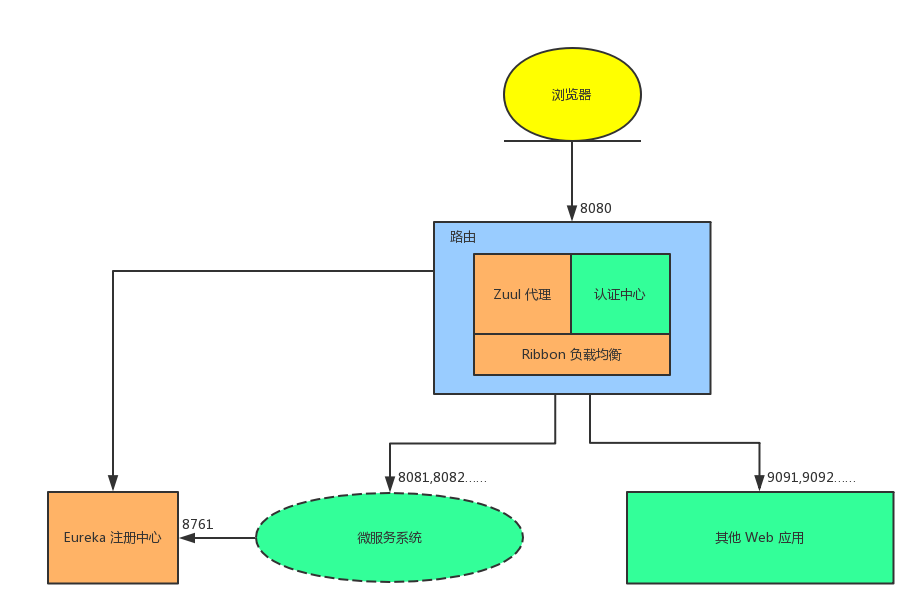
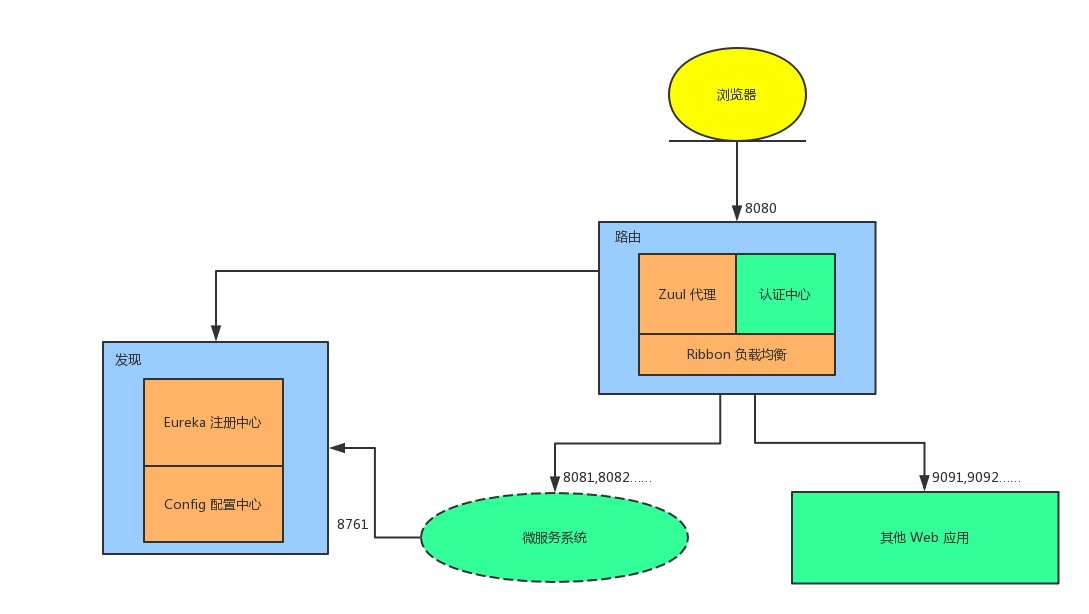
:memo: Spring Cloud Config 文档；完善 Eureka 文档

diff --git a/main.8051309f84e8dd81494f.bundle.js b/main.8051309f84e8dd81494f.bundle.js
@@ -1,0 +1,1 @@
+webpackJsonp([1,4],{"/fcW":function(t,e){function n(t){throw new Error("Cannot find module '"+t+"'.")}n.keys=function(){return[]},n.resolve=n,t.exports=n,n.id="/fcW"},0:function(t,e,n){t.exports=n("x35b")},"0+99":function(t,e,n){"use strict";function _(t){return r._29(0,[(t()(),r._30(0,null,null,1,"div",[["id","articleContent"]],[[8,"innerHTML",1]],null,null,null,null)),(t()(),r._32(null,["\n"])),(t()(),r._32(null,["\n"]))],null,function(t,e){t(e,0,0,e.component.article)})}function i(t){return r._29(0,[(t()(),r._30(0,null,null,1,"app-article-content",[],null,null,null,_,h)),r._31(114688,null,0,o.a,[u.v,s.e,a.a],null,null)],function(t,e){t(e,1,0)},null)}var l=n("a/R+"),r=n("3j3K"),o=n("t3BM"),u=n("5oXY"),s=n("2Je8"),a=n("nt/X");n.d(e,"a",function(){return d});var c=[l.a],h=r._28({encapsulation:0,styles:c,data:{}}),d=r._35("app-article-content",o.a,i,{},{},[])},"0Pyw":function(t,e,n){"use strict";n.d(e,"a",function(){return _});var _=["md-sidenav-container[_ngcontent-%COMP%]{width:100%;height:90%}#menu-button[_ngcontent-%COMP%]{margin-right:10px}"]},"1A80":function(t,e,n){"use strict";function _(t){return r._29(0,[(t()(),r._30(0,null,null,21,"md-toolbar",[["color","primary"],["role","toolbar"]],[[2,"mat-toolbar",null]],null,null,o.f,o.g)),r._31(16384,null,0,u._13,[[2,u._14],r.L],null,null),r._31(49152,null,0,u._15,[r.L,r._20],{color:[0,"color"]},null),(t()(),r._32(0,["\n  "])),(t()(),r._30(0,null,0,16,"button",[["class","mat-button"],["md-button",""],["routerLink","/"],["routerLinkActive","active"]],[[8,"disabled",0]],[[null,"click"]],function(t,e,n){var _=!0;if("click"===e){_=!1!==r._33(t,8).onClick()&&_}return _},o.h,o.i)),r._31(16384,null,0,u._13,[[2,u._14],r.L],null,null),r._31(180224,null,0,u._16,[r.L,r._20,u.b,u.l],null,null),r._31(16384,null,0,u._17,[],null,null),r._31(16384,[[1,4]],0,s.y,[s.j,s.v,[8,null],r.K,r.L],{routerLink:[0,"routerLink"]},null),r._31(1720320,null,2,s.z,[s.j,r.L,r.K,r.P],{routerLinkActive:[0,"routerLinkActive"]},null),r._34(603979776,1,{links:1}),r._34(603979776,2,{linksWithHrefs:1}),(t()(),r._32(0,["\n    "])),(t()(),r._30(0,null,0,3,"md-icon",[["color","accent"],["role","img"]],[[2,"mat-icon",null]],null,null,o.j,o.k)),r._31(16384,null,0,u._13,[[2,u._14],r.L],null,null),r._31(9027584,null,0,u._18,[r.L,r._20,u.w],{color:[0,"color"]},null),(t()(),r._32(0,["book"])),(t()(),r._32(0,["\n    "])),(t()(),r._30(0,null,0,1,"span",[],null,null,null,null,null)),(t()(),r._32(null,["",""])),(t()(),r._32(0,["\n  "])),(t()(),r._32(0,["\n"])),(t()(),r._32(null,["\n"])),(t()(),r._30(16777216,null,null,1,"router-outlet",[],null,null,null,null,null)),r._31(147456,null,0,s.A,[s.l,r.T,r.U,[8,null]],null,null),(t()(),r._32(null,["\n"]))],function(t,e){t(e,2,0,"primary"),t(e,8,0,"/"),t(e,9,0,"active"),t(e,15,0,"accent")},function(t,e){var n=e.component;t(e,0,0,!0),t(e,4,0,r._33(e,6).disabled||null),t(e,13,0,!0),t(e,19,0,n.title)})}function i(t){return r._29(0,[(t()(),r._30(0,null,null,1,"app-root",[],null,null,null,_,h)),r._31(49152,null,0,a.a,[],null,null)],null,null)}var l=n("l0Vc"),r=n("3j3K"),o=n("ZWsw"),u=n("fYnu"),s=n("5oXY"),a=n("YWx4");n.d(e,"a",function(){return d});var c=[l.a],h=r._28({encapsulation:0,styles:c,data:{}}),d=r._35("app-root",a.a,i,{},{},[])},Cd9f:function(t,e,n){"use strict";n.d(e,"a",function(){return _});var _=function(){function t(){}return t}()},Iksp:function(t,e,n){"use strict";var _=n("rxKx");n.n(_);n.d(e,"a",function(){return i});var i=function(){function t(){}return t}()},YWx4:function(t,e,n){"use strict";n.d(e,"a",function(){return _});var _=function(){function t(){this.title="Yorke's Blog"}return t}()},"a/R+":function(t,e,n){"use strict";n.d(e,"a",function(){return _});var _=["#articleContent[_ngcontent-%COMP%]{padding:2vh 2vw}img[_ngcontent-%COMP%]{max-width:94vw}"]},ahCV:function(t,e,n){"use strict";n.d(e,"a",function(){return _});var _=function(){function t(){}return t}()},"g+TE":function(t,e,n){"use strict";var _=n("oj9P"),i=n("t3BM");n.d(e,"a",function(){return l});var l=(_.a,i.a,function(){function t(){}return t}())},kZql:function(t,e,n){"use strict";n.d(e,"a",function(){return _});var _={production:!0}},kke6:function(t,e,n){"use strict";var _=n("3j3K"),i=n("Iksp"),l=n("2Je8"),r=n("5oXY"),o=n("Qbdm"),u=n("NVOs"),s=n("Fzro"),a=n("KN8t"),c=n("fYnu"),h=n("g+TE"),d=n("ahCV"),p=n("Cd9f"),f=n("nt/X"),g=n("ZWsw"),y=n("uvAC"),M=n("0+99"),b=n("1A80"),m=n("oj9P"),A=n("t3BM"),O=n("1GJ2");n.d(e,"a",function(){return S});var R=this&&this.__extends||function(){var t=Object.setPrototypeOf||{__proto__:[]}instanceof Array&&function(t,e){t.__proto__=e}||function(t,e){for(var n in e)e.hasOwnProperty(n)&&(t[n]=e[n])};return function(e,n){function _(){this.constructor=e}t(e,n),e.prototype=null===n?Object.create(n):(_.prototype=n.prototype,new _)}}(),P=function(t){function e(e){return t.call(this,e,[g.a,g.b,g.c,g.d,g.e,y.a,M.a,b.a],[b.a])||this}return R(e,t),Object.defineProperty(e.prototype,"_LOCALE_ID_69",{get:function(){return null==this.__LOCALE_ID_69&&(this.__LOCALE_ID_69=_.b(this.parent.get(_.c,null))),this.__LOCALE_ID_69},enumerable:!0,configurable:!0}),Object.defineProperty(e.prototype,"_NgLocalization_70",{get:function(){return null==this.__NgLocalization_70&&(this.__NgLocalization_70=new l.a(this._LOCALE_ID_69)),this.__NgLocalization_70},enumerable:!0,configurable:!0}),Object.defineProperty(e.prototype,"_APP_ID_71",{get:function(){return null==this.__APP_ID_71&&(this.__APP_ID_71=_.d()),this.__APP_ID_71},enumerable:!0,configurable:!0}),Object.defineProperty(e.prototype,"_IterableDiffers_72",{get:function(){return null==this.__IterableDiffers_72&&(this.__IterableDiffers_72=_.e()),this.__IterableDiffers_72},enumerable:!0,configurable:!0}),Object.defineProperty(e.prototype,"_KeyValueDiffers_73",{get:function(){return null==this.__KeyValueDiffers_73&&(this.__KeyValueDiffers_73=_.f()),this.__KeyValueDiffers_73},enumerable:!0,configurable:!0}),Object.defineProperty(e.prototype,"_DomSanitizer_74",{get:function(){return null==this.__DomSanitizer_74&&(this.__DomSanitizer_74=new o.b(this.parent.get(o.c))),this.__DomSanitizer_74},enumerable:!0,configurable:!0}),Object.defineProperty(e.prototype,"_Sanitizer_75",{get:function(){return null==this.__Sanitizer_75&&(this.__Sanitizer_75=this._DomSanitizer_74),this.__Sanitizer_75},enumerable:!0,configurable:!0}),Object.defineProperty(e.prototype,"_HAMMER_GESTURE_CONFIG_76",{get:function(){return null==this.__HAMMER_GESTURE_CONFIG_76&&(this.__HAMMER_GESTURE_CONFIG_76=new c.a),this.__HAMMER_GESTURE_CONFIG_76},enumerable:!0,configurable:!0}),Object.defineProperty(e.prototype,"_EVENT_MANAGER_PLUGINS_77",{get:function(){return null==this.__EVENT_MANAGER_PLUGINS_77&&(this.__EVENT_MANAGER_PLUGINS_77=[new o.d(this.parent.get(o.c)),new o.e(this.parent.get(o.c)),new o.f(this.parent.get(o.c),this._HAMMER_GESTURE_CONFIG_76)]),this.__EVENT_MANAGER_PLUGINS_77},enumerable:!0,configurable:!0}),Object.defineProperty(e.prototype,"_EventManager_78",{get:function(){return null==this.__EventManager_78&&(this.__EventManager_78=new o.g(this._EVENT_MANAGER_PLUGINS_77,this.parent.get(_.g))),this.__EventManager_78},enumerable:!0,configurable:!0}),Object.defineProperty(e.prototype,"_ɵDomSharedStylesHost_79",{get:function(){return null==this.__ɵDomSharedStylesHost_79&&(this.__ɵDomSharedStylesHost_79=new o.h(this.parent.get(o.c))),this.__ɵDomSharedStylesHost_79},enumerable:!0,configurable:!0}),Object.defineProperty(e.prototype,"_ɵDomRendererFactory2_80",{get:function(){return null==this.__ɵDomRendererFactory2_80&&(this.__ɵDomRendererFactory2_80=new o.i(this._EventManager_78,this._ɵDomSharedStylesHost_79)),this.__ɵDomRendererFactory2_80},enumerable:!0,configurable:!0}),Object.defineProperty(e.prototype,"_AnimationDriver_81",{get:function(){return null==this.__AnimationDriver_81&&(this.__AnimationDriver_81=a.a()),this.__AnimationDriver_81},enumerable:!0,configurable:!0}),Object.defineProperty(e.prototype,"_ɵAnimationStyleNormalizer_82",{get:function(){return null==this.__ɵAnimationStyleNormalizer_82&&(this.__ɵAnimationStyleNormalizer_82=a.b()),this.__ɵAnimationStyleNormalizer_82},enumerable:!0,configurable:!0}),Object.defineProperty(e.prototype,"_ɵAnimationEngine_83",{get:function(){return null==this.__ɵAnimationEngine_83&&(this.__ɵAnimationEngine_83=new a.c(this._AnimationDriver_81,this._ɵAnimationStyleNormalizer_82)),this.__ɵAnimationEngine_83},enumerable:!0,configurable:!0}),Object.defineProperty(e.prototype,"_RendererFactory2_84",{get:function(){return null==this.__RendererFactory2_84&&(this.__RendererFactory2_84=a.d(this._ɵDomRendererFactory2_80,this._ɵAnimationEngine_83,this.parent.get(_.g))),this.__RendererFactory2_84},enumerable:!0,configurable:!0}),Object.defineProperty(e.prototype,"_ɵSharedStylesHost_85",{get:function(){return null==this.__ɵSharedStylesHost_85&&(this.__ɵSharedStylesHost_85=this._ɵDomSharedStylesHost_79),this.__ɵSharedStylesHost_85},enumerable:!0,configurable:!0}),Object.defineProperty(e.prototype,"_Testability_86",{get:function(){return null==this.__Testability_86&&(this.__Testability_86=new _.h(this.parent.get(_.g))),this.__Testability_86},enumerable:!0,configurable:!0}),Object.defineProperty(e.prototype,"_Meta_87",{get:function(){return null==this.__Meta_87&&(this.__Meta_87=new o.j(this.parent.get(o.c))),this.__Meta_87},enumerable:!0,configurable:!0}),Object.defineProperty(e.prototype,"_Title_88",{get:function(){return null==this.__Title_88&&(this.__Title_88=new o.k(this.parent.get(o.c))),this.__Title_88},enumerable:!0,configurable:!0}),Object.defineProperty(e.prototype,"_ɵi_89",{get:function(){return null==this.__ɵi_89&&(this.__ɵi_89=new u.a),this.__ɵi_89},enumerable:!0,configurable:!0}),Object.defineProperty(e.prototype,"_BrowserXhr_90",{get:function(){return null==this.__BrowserXhr_90&&(this.__BrowserXhr_90=new s.a),this.__BrowserXhr_90},enumerable:!0,configurable:!0}),Object.defineProperty(e.prototype,"_ResponseOptions_91",{get:function(){return null==this.__ResponseOptions_91&&(this.__ResponseOptions_91=new s.b),this.__ResponseOptions_91},enumerable:!0,configurable:!0}),Object.defineProperty(e.prototype,"_XSRFStrategy_92",{get:function(){return null==this.__XSRFStrategy_92&&(this.__XSRFStrategy_92=s.c()),this.__XSRFStrategy_92},enumerable:!0,configurable:!0}),Object.defineProperty(e.prototype,"_XHRBackend_93",{get:function(){return null==this.__XHRBackend_93&&(this.__XHRBackend_93=new s.d(this._BrowserXhr_90,this._ResponseOptions_91,this._XSRFStrategy_92)),this.__XHRBackend_93},enumerable:!0,configurable:!0}),Object.defineProperty(e.prototype,"_RequestOptions_94",{get:function(){return null==this.__RequestOptions_94&&(this.__RequestOptions_94=new s.e),this.__RequestOptions_94},enumerable:!0,configurable:!0}),Object.defineProperty(e.prototype,"_Http_95",{get:function(){return null==this.__Http_95&&(this.__Http_95=s.f(this._XHRBackend_93,this._RequestOptions_94)),this.__Http_95},enumerable:!0,configurable:!0}),Object.defineProperty(e.prototype,"_Platform_96",{get:function(){return null==this.__Platform_96&&(this.__Platform_96=new c.b),this.__Platform_96},enumerable:!0,configurable:!0}),Object.defineProperty(e.prototype,"_ScrollDispatcher_97",{get:function(){return null==this.__ScrollDispatcher_97&&(this.__ScrollDispatcher_97=c.c(this.parent.get(c.d,null),this.parent.get(_.g),this._Platform_96)),this.__ScrollDispatcher_97},enumerable:!0,configurable:!0}),Object.defineProperty(e.prototype,"_ɵo_98",{get:function(){return null==this.__ɵo_98&&(this.__ɵo_98=c.e(this.parent.get(c.f,null),this._ScrollDispatcher_97)),this.__ɵo_98},enumerable:!0,configurable:!0}),Object.defineProperty(e.prototype,"_OverlayContainer_99",{get:function(){return null==this.__OverlayContainer_99&&(this.__OverlayContainer_99=c.g(this.parent.get(c.h,null))),this.__OverlayContainer_99},enumerable:!0,configurable:!0}),Object.defineProperty(e.prototype,"_ɵr_100",{get:function(){return null==this.__ɵr_100&&(this.__ɵr_100=new c.i(this._ɵo_98)),this.__ɵr_100},enumerable:!0,configurable:!0}),Object.defineProperty(e.prototype,"_Overlay_101",{get:function(){return null==this.__Overlay_101&&(this.__Overlay_101=new c.j(this._OverlayContainer_99,this.componentFactoryResolver,this._ɵr_100,this._ApplicationRef_7,this,this.parent.get(_.g))),this.__Overlay_101},enumerable:!0,configurable:!0}),Object.defineProperty(e.prototype,"_FocusOriginMonitor_102",{get:function(){return null==this.__FocusOriginMonitor_102&&(this.__FocusOriginMonitor_102=c.k(this.parent.get(c.l,null),this.parent.get(_.g),this._Platform_96)),this.__FocusOriginMonitor_102},enumerable:!0,configurable:!0}),Object.defineProperty(e.prototype,"_UniqueSelectionDispatcher_103",{get:function(){return null==this.__UniqueSelectionDispatcher_103&&(this.__UniqueSelectionDispatcher_103=c.m(this.parent.get(c.n,null))),this.__UniqueSelectionDispatcher_103},enumerable:!0,configurable:!0}),Object.defineProperty(e.prototype,"_InteractivityChecker_104",{get:function(){return null==this.__InteractivityChecker_104&&(this.__InteractivityChecker_104=new c.o(this._Platform_96)),this.__InteractivityChecker_104},enumerable:!0,configurable:!0}),Object.defineProperty(e.prototype,"_FocusTrapFactory_105",{get:function(){return null==this.__FocusTrapFactory_105&&(this.__FocusTrapFactory_105=new c.p(this._InteractivityChecker_104,this.parent.get(_.g))),this.__FocusTrapFactory_105},enumerable:!0,configurable:!0}),Object.defineProperty(e.prototype,"_LiveAnnouncer_106",{get:function(){return null==this.__LiveAnnouncer_106&&(this.__LiveAnnouncer_106=c.q(this.parent.get(c.r,null),this.parent.get(c.s,null),this._Platform_96)),this.__LiveAnnouncer_106},enumerable:!0,configurable:!0}),Object.defineProperty(e.prototype,"_MdDialog_107",{get:function(){return null==this.__MdDialog_107&&(this.__MdDialog_107=new c.t(this._Overlay_101,this,this._Location_59,this.parent.get(c.t,null))),this.__MdDialog_107},enumerable:!0,configurable:!0}),Object.defineProperty(e.prototype,"_MdDatepickerIntl_108",{get:function(){return null==this.__MdDatepickerIntl_108&&(this.__MdDatepickerIntl_108=new c.u),this.__MdDatepickerIntl_108},enumerable:!0,configurable:!0}),Object.defineProperty(e.prototype,"_MdIconRegistry_109",{get:function(){return null==this.__MdIconRegistry_109&&(this.__MdIconRegistry_109=c.v(this.parent.get(c.w,null),this._Http_95,this._DomSanitizer_74)),this.__MdIconRegistry_109},enumerable:!0,configurable:!0}),Object.defineProperty(e.prototype,"_MdSnackBar_110",{get:function(){return null==this.__MdSnackBar_110&&(this.__MdSnackBar_110=new c.x(this._Overlay_101,this._LiveAnnouncer_106,this.parent.get(c.x,null))),this.__MdSnackBar_110},enumerable:!0,configurable:!0}),Object.defineProperty(e.prototype,"_ɵa_111",{get:function(){return null==this.__ɵa_111&&(this.__ɵa_111=new c.y),this.__ɵa_111},enumerable:!0,configurable:!0}),Object.defineProperty(e.prototype,"_BlogArticleService_112",{get:function(){return null==this.__BlogArticleService_112&&(this.__BlogArticleService_112=new f.a(this._Http_95)),this.__BlogArticleService_112},enumerable:!0,configurable:!0}),Object.defineProperty(e.prototype,"_ActivatedRoute_113",{get:function(){return null==this.__ActivatedRoute_113&&(this.__ActivatedRoute_113=r.a(this._Router_63)),this.__ActivatedRoute_113},enumerable:!0,configurable:!0}),Object.defineProperty(e.prototype,"_NoPreloading_114",{get:function(){return null==this.__NoPreloading_114&&(this.__NoPreloading_114=new r.b),this.__NoPreloading_114},enumerable:!0,configurable:!0}),Object.defineProperty(e.prototype,"_PreloadingStrategy_115",{get:function(){return null==this.__PreloadingStrategy_115&&(this.__PreloadingStrategy_115=this._NoPreloading_114),this.__PreloadingStrategy_115},enumerable:!0,configurable:!0}),Object.defineProperty(e.prototype,"_RouterPreloader_116",{get:function(){return null==this.__RouterPreloader_116&&(this.__RouterPreloader_116=new r.c(this._Router_63,this._NgModuleFactoryLoader_61,this._Compiler_60,this,this._PreloadingStrategy_115)),this.__RouterPreloader_116},enumerable:!0,configurable:!0}),Object.defineProperty(e.prototype,"_PreloadAllModules_117",{get:function(){return null==this.__PreloadAllModules_117&&(this.__PreloadAllModules_117=new r.d),this.__PreloadAllModules_117},enumerable:!0,configurable:!0}),Object.defineProperty(e.prototype,"_ROUTER_INITIALIZER_118",{get:function(){return null==this.__ROUTER_INITIALIZER_118&&(this.__ROUTER_INITIALIZER_118=r.e(this._ɵg_3)),this.__ROUTER_INITIALIZER_118},enumerable:!0,configurable:!0}),Object.defineProperty(e.prototype,"_APP_BOOTSTRAP_LISTENER_119",{get:function(){return null==this.__APP_BOOTSTRAP_LISTENER_119&&(this.__APP_BOOTSTRAP_LISTENER_119=[this._ROUTER_INITIALIZER_118]),this.__APP_BOOTSTRAP_LISTENER_119},enumerable:!0,configurable:!0}),e.prototype.createInternal=function(){return this._CommonModule_0=new l.b,this._ErrorHandler_1=o.l(),this._NgProbeToken_2=[r.f()],this._ɵg_3=new r.g(this),this._APP_INITIALIZER_4=[_.i,o.m(this.parent.get(o.n,null),this._NgProbeToken_2),r.h(this._ɵg_3)],this._ApplicationInitStatus_5=new _.j(this._APP_INITIALIZER_4),this._ɵf_6=new _.k(this.parent.get(_.g),this.parent.get(_.l),this,this._ErrorHandler_1,this.componentFactoryResolver,this._ApplicationInitStatus_5),this._ApplicationRef_7=this._ɵf_6,this._ApplicationModule_8=new _.m(this._ApplicationRef_7),this._BrowserModule_9=new o.o(this.parent.get(o.o,null)),this._ɵba_10=new u.b,this._FormsModule_11=new u.c,this._HttpModule_12=new s.g,this._BrowserAnimationsModule_13=new a.e,this._MATERIAL_SANITY_CHECKS_14=!0,this._CompatibilityModule_15=new c.z(this.parent.get(o.c,null),this._MATERIAL_SANITY_CHECKS_14),this._MdCommonModule_16=new c.A,this._PlatformModule_17=new c.B,this._ɵm_18=new c.C,this._MdRippleModule_19=new c.D,this._MdSelectionModule_20=new c.E,this._MdOptionModule_21=new c.F,this._PortalModule_22=new c.G,this._OverlayModule_23=new c.H,this._MdAutocompleteModule_24=new c.I,this._StyleModule_25=new c.J,this._MdButtonModule_26=new c.K,this._MdButtonToggleModule_27=new c.L,this._MdCardModule_28=new c.M,this._MdChipsModule_29=new c.N,this._MdCheckboxModule_30=new c.O,this._A11yModule_31=new c.P,this._MdDialogModule_32=new c.Q,this._MdDatepickerModule_33=new c.R,this._MdLineModule_34=new c.S,this._MdGridListModule_35=new c.T,this._MdIconModule_36=new c.U,this._MdInputModule_37=new c.V,this._MdListModule_38=new c.W,this._MdMenuModule_39=new c.X,this._MdProgressBarModule_40=new c.Y,this._MdProgressSpinnerModule_41=new c.Z,this._MdRadioModule_42=new c._0,this._MdSelectModule_43=new c._1,this._MdSidenavModule_44=new c._2,this._RtlModule_45=new c._3,this._MdSliderModule_46=new c._4,this._MdSlideToggleModule_47=new c._5,this._MdSnackBarModule_48=new c._6,this._ObserveContentModule_49=new c._7,this._MdTabsModule_50=new c._8,this._MdToolbarModule_51=new c._9,this._MdTooltipModule_52=new c._10,this._MaterialModule_53=new c._11,this._ɵa_54=r.i(this.parent.get(r.j,null)),this._UrlSerializer_55=new r.k,this._RouterOutletMap_56=new r.l,this._ROUTER_CONFIGURATION_57={},this._LocationStrategy_58=r.m(this.parent.get(l.c),this.parent.get(l.d,null),this._ROUTER_CONFIGURATION_57),this._Location_59=new l.e(this._LocationStrategy_58),this._Compiler_60=new _.n,this._NgModuleFactoryLoader_61=new _.o(this._Compiler_60,this.parent.get(_.p,null)),this._ROUTES_62=[[{path:"articles",component:m.a,children:[{path:":title",component:A.a}]}],[{path:"",redirectTo:"/articles/Spring%20Cloud%20架构概述",pathMatch:"full"}]],this._Router_63=r.n(this._ApplicationRef_7,this._UrlSerializer_55,this._RouterOutletMap_56,this._Location_59,this,this._NgModuleFactoryLoader_61,this._Compiler_60,this._ROUTES_62,this._ROUTER_CONFIGURATION_57,this.parent.get(r.o,null),this.parent.get(r.p,null)),this._RouterModule_64=new r.q(this._ɵa_54,this._Router_63),this._BlogArticleRoutingModule_65=new h.a,this._BlogArticleModule_66=new d.a,this._AppRoutingModule_67=new p.a,this._AppModule_68=new i.a,this._AppModule_68},e.prototype.getInternal=function(t,e){return t===l.b?this._CommonModule_0:t===_.q?this._ErrorHandler_1:t===_.r?this._NgProbeToken_2:t===r.g?this._ɵg_3:t===_.s?this._APP_INITIALIZER_4:t===_.j?this._ApplicationInitStatus_5:t===_.k?this._ɵf_6:t===_.t?this._ApplicationRef_7:t===_.m?this._ApplicationModule_8:t===o.o?this._BrowserModule_9:t===u.b?this._ɵba_10:t===u.c?this._FormsModule_11:t===s.g?this._HttpModule_12:t===a.e?this._BrowserAnimationsModule_13:t===c._12?this._MATERIAL_SANITY_CHECKS_14:t===c.z?this._CompatibilityModule_15:t===c.A?this._MdCommonModule_16:t===c.B?this._PlatformModule_17:t===c.C?this._ɵm_18:t===c.D?this._MdRippleModule_19:t===c.E?this._MdSelectionModule_20:t===c.F?this._MdOptionModule_21:t===c.G?this._PortalModule_22:t===c.H?this._OverlayModule_23:t===c.I?this._MdAutocompleteModule_24:t===c.J?this._StyleModule_25:t===c.K?this._MdButtonModule_26:t===c.L?this._MdButtonToggleModule_27:t===c.M?this._MdCardModule_28:t===c.N?this._MdChipsModule_29:t===c.O?this._MdCheckboxModule_30:t===c.P?this._A11yModule_31:t===c.Q?this._MdDialogModule_32:t===c.R?this._MdDatepickerModule_33:t===c.S?this._MdLineModule_34:t===c.T?this._MdGridListModule_35:t===c.U?this._MdIconModule_36:t===c.V?this._MdInputModule_37:t===c.W?this._MdListModule_38:t===c.X?this._MdMenuModule_39:t===c.Y?this._MdProgressBarModule_40:t===c.Z?this._MdProgressSpinnerModule_41:t===c._0?this._MdRadioModule_42:t===c._1?this._MdSelectModule_43:t===c._2?this._MdSidenavModule_44:t===c._3?this._RtlModule_45:t===c._4?this._MdSliderModule_46:t===c._5?this._MdSlideToggleModule_47:t===c._6?this._MdSnackBarModule_48:t===c._7?this._ObserveContentModule_49:t===c._8?this._MdTabsModule_50:t===c._9?this._MdToolbarModule_51:t===c._10?this._MdTooltipModule_52:t===c._11?this._MaterialModule_53:t===r.r?this._ɵa_54:t===r.s?this._UrlSerializer_55:t===r.l?this._RouterOutletMap_56:t===r.t?this._ROUTER_CONFIGURATION_57:t===l.f?this._LocationStrategy_58:t===l.e?this._Location_59:t===_.n?this._Compiler_60:t===_.u?this._NgModuleFactoryLoader_61:t===r.u?this._ROUTES_62:t===r.j?this._Router_63:t===r.q?this._RouterModule_64:t===h.a?this._BlogArticleRoutingModule_65:t===d.a?this._BlogArticleModule_66:t===p.a?this._AppRoutingModule_67:t===i.a?this._AppModule_68:t===_.c?this._LOCALE_ID_69:t===l.g?this._NgLocalization_70:t===_.v?this._APP_ID_71:t===_.w?this._IterableDiffers_72:t===_.x?this._KeyValueDiffers_73:t===o.p?this._DomSanitizer_74:t===_.y?this._Sanitizer_75:t===o.q?this._HAMMER_GESTURE_CONFIG_76:t===o.r?this._EVENT_MANAGER_PLUGINS_77:t===o.g?this._EventManager_78:t===o.h?this._ɵDomSharedStylesHost_79:t===o.i?this._ɵDomRendererFactory2_80:t===O.a?this._AnimationDriver_81:t===O.b?this._ɵAnimationStyleNormalizer_82:t===O.c?this._ɵAnimationEngine_83:t===_.z?this._RendererFactory2_84:t===o.s?this._ɵSharedStylesHost_85:t===_.h?this._Testability_86:t===o.j?this._Meta_87:t===o.k?this._Title_88:t===u.a?this._ɵi_89:t===s.a?this._BrowserXhr_90:t===s.h?this._ResponseOptions_91:t===s.i?this._XSRFStrategy_92:t===s.d?this._XHRBackend_93:t===s.j?this._RequestOptions_94:t===s.k?this._Http_95:t===c.b?this._Platform_96:t===c.d?this._ScrollDispatcher_97:t===c.f?this._ɵo_98:t===c.h?this._OverlayContainer_99:t===c.i?this._ɵr_100:t===c.j?this._Overlay_101:t===c.l?this._FocusOriginMonitor_102:t===c.n?this._UniqueSelectionDispatcher_103:t===c.o?this._InteractivityChecker_104:t===c.p?this._FocusTrapFactory_105:t===c.r?this._LiveAnnouncer_106:t===c.t?this._MdDialog_107:t===c.u?this._MdDatepickerIntl_108:t===c.w?this._MdIconRegistry_109:t===c.x?this._MdSnackBar_110:t===c.y?this._ɵa_111:t===f.a?this._BlogArticleService_112:t===r.v?this._ActivatedRoute_113:t===r.b?this._NoPreloading_114:t===r.w?this._PreloadingStrategy_115:t===r.c?this._RouterPreloader_116:t===r.d?this._PreloadAllModules_117:t===r.x?this._ROUTER_INITIALIZER_118:t===_.A?this._APP_BOOTSTRAP_LISTENER_119:e},e.prototype.destroyInternal=function(){this._ɵf_6.ngOnDestroy(),this.__ɵDomSharedStylesHost_79&&this._ɵDomSharedStylesHost_79.ngOnDestroy(),this.__RouterPreloader_116&&this._RouterPreloader_116.ngOnDestroy()},e}(_.B),S=new _.C(P,i.a)},l0Vc:function(t,e,n){"use strict";n.d(e,"a",function(){return _});var _=[""]},"nt/X":function(t,e,n){"use strict";var _=n("Fzro"),i=n("EFqf"),l=(n.n(i),n("eErF"));n.n(l);n.d(e,"a",function(){return s});var r=["Spring Cloud 架构概述","Eureka - 服务发现","Zuul - 反向代理","Ribbon - 负载均衡","Config - 配置中心"],o="/assets/articles/",u=".md",s=function(){function t(t){this.http=t,this.articleList=r}return t.prototype.getArticleList=function(){return this.articleList},t.prototype.getArticle=function(t){return this.http.get(o+t+u).toPromise().then(function(t){return i(t.text())})},t.ctorParameters=function(){return[{type:_.k}]},t}()},oj9P:function(t,e,n){"use strict";var _=n("5oXY"),i=n("nt/X");n.d(e,"a",function(){return l});var l=function(){function t(t,e,n){this.router=t,this.activatedRoute=e,this.blogArticleService=n,this.selectedArticle="Spring Cloud"}return t.prototype.ngOnInit=function(){this.articleList=this.blogArticleService.getArticleList()},t.prototype.onSelect=function(t){this.selectedArticle=t,this.router.navigate([t],{relativeTo:this.activatedRoute})},t.ctorParameters=function(){return[{type:_.j},{type:_.v},{type:i.a}]},t}()},t3BM:function(t,e,n){"use strict";var _=n("5oXY"),i=n("2Je8"),l=n("uCY4"),r=(n.n(l),n("nt/X"));n.d(e,"a",function(){return o});var o=function(){function t(t,e,n){this.activatedRoute=t,this.location=e,this.blogArticleService=n}return t.prototype.ngOnInit=function(){var t=this;this.activatedRoute.params.switchMap(function(e){return t.blogArticleService.getArticle(e.title)}).subscribe(function(e){return t.article=e})},t.ctorParameters=function(){return[{type:_.v},{type:i.e},{type:r.a}]},t}()},uvAC:function(t,e,n){"use strict";function _(t){return o._29(0,[(t()(),o._30(0,null,null,24,"md-nav-list",[["dense",""],["role","list"]],[[2,"mat-nav-list",null]],null,null,u.l,u.m)),o._31(16384,null,0,s._13,[[2,s._14],o.L],null,null),o._31(49152,null,0,s._58,[],null,null),o._31(16384,null,0,s._60,[],null,null),(t()(),o._32(0,["\n      "])),(t()(),o._30(0,null,0,18,"md-list-item",[["role","listitem"],["routerLinkActive","active"]],[[2,"mat-list-item",null]],[[null,"click"],[null,"focus"],[null,"blur"]],function(t,e,n){var _=!0,i=t.component;if("focus"===e){_=!1!==o._33(t,7)._handleFocus()&&_}if("blur"===e){_=!1!==o._33(t,7)._handleBlur()&&_}if("click"===e){i.onSelect(t.context.$implicit);_=!1!==o._33(t.parent,7).toggle()&&_}return _},u.n,u.o)),o._31(16384,null,0,s._13,[[2,s._14],o.L],null,null),o._31(1097728,null,2,s._59,[o._20,o.L,[2,s._58],[2,s._60]],null,null),o._34(603979776,2,{_lines:1}),o._34(335544320,3,{_hasAvatar:0}),o._31(1720320,null,2,a.z,[a.j,o.L,o.K,o.P],{routerLinkActive:[0,"routerLinkActive"]},null),o._34(603979776,4,{links:1}),o._34(603979776,5,{linksWithHrefs:1}),(t()(),o._32(2,["\n        "])),(t()(),o._30(0,null,0,4,"md-icon",[["md-list-icon",""],["role","img"]],[[2,"mat-icon",null],[2,"mat-list-icon",null]],null,null,u.j,u.k)),o._31(16384,null,0,s._13,[[2,s._14],o.L],null,null),o._31(9027584,null,0,s._18,[o.L,o._20,s.w],null,null),o._31(16384,null,0,s._88,[],null,null),(t()(),o._32(0,["note"])),(t()(),o._32(2,["\n        "])),(t()(),o._30(0,null,1,2,"a",[["md-line",""]],[[2,"mat-line",null]],null,null,null,null)),o._31(16384,[[2,4]],0,s._89,[],null,null),(t()(),o._32(null,["",""])),(t()(),o._32(2,["\n      "])),(t()(),o._32(0,["\n    "]))],function(t,e){t(e,10,0,"active"),t(e,16,0)},function(t,e){t(e,0,0,!0),t(e,5,0,!0),t(e,14,0,!0,!0),t(e,20,0,!0),t(e,22,0,e.context.$implicit)})}function i(t){return o._29(0,[(t()(),o._30(0,null,null,39,"md-sidenav-container",[],[[2,"mat-sidenav-container",null],[2,"mat-sidenav-transition",null]],null,null,u.p,u.q)),o._31(16384,null,0,s._13,[[2,s._14],o.L],null,null),o._31(1097728,null,1,s._72,[[2,s._51],o.L,o._20,o.g],null,null),o._34(603979776,1,{_sidenavs:1}),(t()(),o._32(1,["\n  "])),(t()(),o._30(0,null,0,16,"md-sidenav",[["tabIndex","-1"]],[[2,"mat-sidenav",null],[1,"align",0],[2,"mat-sidenav-closed",null],[2,"mat-sidenav-closing",null],[2,"mat-sidenav-end",null],[2,"mat-sidenav-opened",null],[2,"mat-sidenav-opening",null],[2,"mat-sidenav-over",null],[2,"mat-sidenav-push",null],[2,"mat-sidenav-side",null]],[[null,"transitionend"],[null,"keydown"]],function(t,e,n){var _=!0;if("transitionend"===e){_=!1!==o._33(t,7)._onTransitionEnd(n)&&_}if("keydown"===e){_=!1!==o._33(t,7).handleKeydown(n)&&_}return _},u.r,u.s)),o._31(16384,null,0,s._13,[[2,s._14],o.L],null,null),o._31(1228800,[[1,4],["sidenav",4]],0,s._73,[o.L,s.p],null,null),(t()(),o._32(0,["\n    "])),(t()(),o._30(0,null,0,8,"md-nav-list",[["role","list"]],[[2,"mat-nav-list",null]],null,null,u.l,u.m)),o._31(16384,null,0,s._13,[[2,s._14],o.L],null,null),o._31(49152,null,0,s._58,[],null,null),o._31(16384,null,0,s._60,[],null,null),(t()(),o._32(0,["\n      "])),(t()(),o._30(0,null,0,2,"h3",[["md-subheader",""]],[[2,"mat-subheader",null]],null,null,null,null)),o._31(16384,null,0,s._90,[],null,null),(t()(),o._32(null,["Spring Cloud"])),(t()(),o._32(0,["\n    "])),(t()(),o._32(0,["\n\n    "])),(t()(),o._36(16777216,null,0,1,null,_)),o._31(802816,null,0,c.q,[o.T,o._6,o.w],{ngForOf:[0,"ngForOf"]},null),(t()(),o._32(0,["\n  "])),(t()(),o._32(1,["\n\n  "])),(t()(),o._30(0,null,1,12,"md-toolbar",[["color","primary"],["role","toolbar"]],[[2,"mat-toolbar",null]],null,null,u.f,u.g)),o._31(16384,null,0,s._13,[[2,s._14],o.L],null,null),o._31(49152,null,0,s._15,[o.L,o._20],{color:[0,"color"]},null),(t()(),o._32(0,["\n    "])),(t()(),o._30(0,null,0,7,"button",[["class","mat-button"],["id","menu-button"],["md-button",""]],[[8,"disabled",0]],[[null,"click"]],function(t,e,n){var _=!0;if("click"===e){_=!1!==o._33(t,7).toggle()&&_}return _},u.h,u.i)),o._31(16384,null,0,s._13,[[2,s._14],o.L],null,null),o._31(180224,null,0,s._16,[o.L,o._20,s.b,s.l],null,null),o._31(16384,null,0,s._17,[],null,null),(t()(),o._30(0,null,0,3,"md-icon",[["role","img"]],[[2,"mat-icon",null]],null,null,u.j,u.k)),o._31(16384,null,0,s._13,[[2,s._14],o.L],null,null),o._31(9027584,null,0,s._18,[o.L,o._20,s.w],null,null),(t()(),o._32(0,["menu"])),(t()(),o._32(0,["\n    ","\n  "])),(t()(),o._32(1,["\n  "])),(t()(),o._30(16777216,null,1,1,"router-outlet",[],null,null,null,null,null)),o._31(147456,null,0,a.A,[a.l,o.T,o.U,[8,null]],null,null),(t()(),o._32(1,["\n"])),(t()(),o._32(null,["\n"]))],function(t,e){t(e,20,0,e.component.articleList),t(e,25,0,"primary"),t(e,33,0)},function(t,e){var n=e.component;t(e,0,0,!0,o._33(e,2)._enableTransitions),t(e,5,0,!0,null,o._33(e,7)._isClosed,o._33(e,7)._isClosing,o._33(e,7)._isEnd,o._33(e,7)._isOpened,o._33(e,7)._isOpening,o._33(e,7)._modeOver,o._33(e,7)._modePush,o._33(e,7)._modeSide),t(e,9,0,!0),t(e,14,0,!0),t(e,23,0,!0),t(e,27,0,o._33(e,29).disabled||null),t(e,31,0,!0),t(e,35,0,n.selectedArticle)})}function l(t){return o._29(0,[(t()(),o._30(0,null,null,1,"app-article-panel",[],null,null,null,i,f)),o._31(114688,null,0,h.a,[a.j,a.v,d.a],null,null)],function(t,e){t(e,1,0)},null)}var r=n("0Pyw"),o=n("3j3K"),u=n("ZWsw"),s=n("fYnu"),a=n("5oXY"),c=n("2Je8"),h=n("oj9P"),d=n("nt/X");n.d(e,"a",function(){return g});var p=[r.a],f=o._28({encapsulation:0,styles:p,data:{}}),g=o._35("app-article-panel",h.a,l,{},{},[])},x35b:function(t,e,n){"use strict";Object.defineProperty(e,"__esModule",{value:!0});var _=n("3j3K"),i=n("kZql"),l=n("Qbdm"),r=n("kke6");i.a.production&&n.i(_.a)(),n.i(l.a)().bootstrapModuleFactory(r.a)}},[0]);

diff --git a/inline.6bddac7224eb984c821d.bundle.js b/inline.6bddac7224eb984c821d.bundle.js
@@ -1,0 +1,1 @@
+!function(e){function r(n){if(t[n])return t[n].exports;var o=t[n]={i:n,l:!1,exports:{}};return e[n].call(o.exports,o,o.exports,r),o.l=!0,o.exports}var n=window.webpackJsonp;window.webpackJsonp=function(t,c,u){for(var a,i,f,l=0,s=[];l<t.length;l++)i=t[l],o[i]&&s.push(o[i][0]),o[i]=0;for(a in c)Object.prototype.hasOwnProperty.call(c,a)&&(e[a]=c[a]);for(n&&n(t,c,u);s.length;)s.shift()();if(u)for(l=0;l<u.length;l++)f=r(r.s=u[l]);return f};var t={},o={4:0};r.e=function(e){function n(){c.onerror=c.onload=null,clearTimeout(u);var r=o[e];0!==r&&(r&&r[1](new Error("Loading chunk "+e+" failed.")),o[e]=void 0)}if(0===o[e])return Promise.resolve();if(o[e])return o[e][2];var t=document.getElementsByTagName("head")[0],c=document.createElement("script");c.type="text/javascript",c.charset="utf-8",c.async=!0,c.timeout=12e4,r.nc&&c.setAttribute("nonce",r.nc),c.src=r.p+""+e+"."+{0:"d90888e283bda7f009a0",1:"8051309f84e8dd81494f",2:"0ff8642cae1437d2c6d3"}[e]+".chunk.js";var u=setTimeout(n,12e4);c.onerror=c.onload=n;var a=new Promise(function(r,n){o[e]=[r,n]});return o[e][2]=a,t.appendChild(c),a},r.m=e,r.c=t,r.i=function(e){return e},r.d=function(e,n,t){r.o(e,n)||Object.defineProperty(e,n,{configurable:!1,enumerable:!0,get:t})},r.n=function(e){var n=e&&e.__esModule?function(){return e.default}:function(){return e};return r.d(n,"a",n),n},r.o=function(e,r){return Object.prototype.hasOwnProperty.call(e,r)},r.p="",r.oe=function(e){throw console.error(e),e}}([]);

diff --git a/index.html b/index.html
@@ -10,5 +10,5 @@
 <link href="styles.fd6baea0ee6c92acf2e2.bundle.css" rel="stylesheet"/></head>
 <body>
   <app-root>Loading...</app-root>
-<script type="text/javascript" src="inline.3e433d4876ed97ea63d8.bundle.js"></script><script type="text/javascript" src="polyfills.d90888e283bda7f009a0.bundle.js"></script><script type="text/javascript" src="vendor.16739e90f391d2d37982.bundle.js"></script><script type="text/javascript" src="main.b41dfa3db3a28b008383.bundle.js"></script></body>
+<script type="text/javascript" src="inline.6bddac7224eb984c821d.bundle.js"></script><script type="text/javascript" src="polyfills.d90888e283bda7f009a0.bundle.js"></script><script type="text/javascript" src="vendor.16739e90f391d2d37982.bundle.js"></script><script type="text/javascript" src="main.8051309f84e8dd81494f.bundle.js"></script></body>
 </html>

diff --git a/assets/articles/Config - 配置中心.md b/assets/articles/Config - 配置中心.md
@@ -1,0 +1,243 @@
+# Config - 配置中心
+
+
+
+## 背景
+
+随着服务的增多，对项目项目配置文件的管理变动越来越复杂。
+
+每次修改配置，都需要重新部署/重启服务，很麻烦。
+
+
+
+解决这一问题，可以引入 Spring Cloud 的 Config 组件。
+
+
+
+## Config 简介
+
+Config 为我们提供了集中化的配置解决方案。
+
+这使得我们可以将配置文件从各个项目中抽离出来，在一个地方进行集中管理。
+
+配置文件更新后，刷新受影响的客户端重新加载配置，而无需重启。
+
+Config 提供基于 Git、SVN 和本地的配置文件管理（默认为 Git）。可以对配置进行版本化管理。
+
+
+
+## Config Demo 搭建
+
+在前面的章节中，我们已经搭建了一个 Eureka 注册中心、一个 集成了 Ribbon 负载均衡控制的 Zuul 反向代理，以及两个提供相同服务的节点。
+
+接下来，我们为系统引入 Config 组件。
+
+1. Eureka 集成 Config
+
+   目前为止，Eureka Server 只加了一个注解和少量配置。我打算让它和 Conifg 集成起来，这样减少需要启动的服务数量。
+
+   在 Eureka 的 `pom.xml` 文件中引入 Config 的 Spring Boot 启动器：
+
+   ```xml
+   <dependency>
+     <groupId>org.springframework.cloud</groupId>
+     <artifactId>spring-cloud-config-server</artifactId>
+   </dependency>
+   ```
+
+2. 启用 Conifg
+
+   在 Eureka 的启动类中，通过 `@EnableConfigServer` 注解，启用 Config 服务：
+
+   ```java
+   @EnableConfigServer
+   @EnableEurekaServer
+   @SpringBootApplication
+   public class EurekaServerDemoApplication {
+
+   	public static void main(String[] args) {
+   		SpringApplication.run(EurekaServerDemoApplication.class, args);
+   	}
+   }
+   ```
+
+   **注意**：这里我将 Config 注解放到了 Eureka 的注解之前。否则可能无法正常访问 Eureka 的管理页面。
+
+3. 配置 Config
+
+   在 `application.yml`（或 `application.properties`）中加入 Config 配置项：
+
+   ```yaml
+   spring:
+     profiles:
+       active: native
+     cloud:
+       config:
+         server:
+           native:
+             search-locations: classpath:config/{application}
+   ```
+
+   这里我先启用了本地模式（默认为 Git），然后设置了配置文件的搜索路径。
+
+   `{application}` 是应用的名称。稍后，我们将在 config 目录下，创建与服务名称相对应的文件夹，并将与服务相关的配置文件放到对映的路径下。
+
+   使用本地配置，就不能进行版本管理了。想尝试基于 Git 的管理中心，可以查看[官方示例](https://spring.io/guides/gs/centralized-configuration/)
+
+4. 创建配置文件目录
+
+   在 `src/main/resources/` 下面创建上面执行的配置文件路径 `config/`，并在其下面创建 Zuul 和 Service 的路径：`zuul-server/` 和 `service-client/`。
+
+5. 移动配置文件
+
+   将 Zuul 的配置文件 `application.yml` 剪切并粘贴到上一步创建的 Config 目录的 `config/zuul-server/` 路径下。以后客户端的配置文件就到这里拿了。
+
+   为了方便测试，我们注释掉启用 SSL/TLS 的部分，否则稍后在测试刷新配置时，可能会报证书不信任的问题（还记得吗？我们的证书是自己生成的，正规的证书需要向证书颁发商购买）。
+
+   ```yaml
+   zuul:
+     routes:
+       baidu:
+         path: /baidu/**
+         url: https://www.baidu.com
+
+   #server:
+   #  ssl:
+   #    key-store: classpath:.keystore
+   #    key-password: changeit
+   #    key-store-type: JKS
+   #    key-alias: tomcat
+
+   service-client:
+     ribbon:
+       NFLoadBalancerRuleClassName: com.netflix.loadbalancer.RoundRobinRule
+   ```
+
+   至于 Service，我们只给他配置了启动端口，就先留在原来的地方吧。
+
+   配置文件被拿走了，客户端怎么知道去哪里拿的？这是接下来要做的事。
+
+6. 客户端引入依赖
+
+   在两个 Service 和 集成了 Zuul-Ribbon 的项目中，引入 Conifg 依赖到 `pom.xml`。
+
+   ```xml
+   <dependency>
+     <groupId>org.springframework.cloud</groupId>
+     <artifactId>spring-cloud-starter-config</artifactId>
+   </dependency>
+   <dependency>
+     <groupId>org.springframework.boot</groupId>
+     <artifactId>spring-boot-starter-actuator</artifactId>
+   </dependency>
+   ```
+
+   这里还引入了一个 actuator 的启动器，我们稍后再介绍。
+
+7. 配置客户端
+
+   拿走了 `application.yml` 配置文件后，客户端中还剩下了一个 `bootstrap.yml` 文件。这是在项目启动的引导时需要加载的配置项。
+
+   之前我们在这里配置了名称，接下来我们在这里指定配置源：
+
+   ```yaml
+   spring:
+     application:
+       name: zuul-server
+     cloud:
+       config:
+         uri: http://localhost:8761
+     management:
+       security:
+         enabled: false
+   ```
+
+   我们先指定了配置源的地址。
+
+   Config 默认的端口是 8888，如果是在这个端口上运作的，客户端则无需额外配置（默认会在 8888 上找）。由于我们将 Config 集成到了 Eureka 的 8761 端口，所以这里手动指定一下。
+
+   然后我们关闭了一个安全开关，方便测试。否则稍后刷新配置的时候，会需要身份验证。
+
+8. 设置刷新域
+
+   之前引入的 `Actuator` 为我们的客户端暴露了用于刷新并重新设置的接口。利用其 `/refresh` 接口，当配置发生改变时，我们可以刷新客户端配置，而无需重启服务。
+
+   但是在此之前我们需要通过 `@RefreshScope` 注解来设置刷新域。
+
+   这里，我们直接将它注解到了 Zuul-Ribbon 项目的启动类上，以此来全局刷新。
+
+   ```java
+   @EnableZuulProxy
+   @EnableEurekaClient
+   @RefreshScope
+   @SpringBootApplication
+   public class ZuulServerDemoApplication {
+
+   	public static void main(String[] args) {
+   		SpringApplication.run(ZuulServerDemoApplication.class, args);
+   	}
+
+   	@Bean
+   	public CrossOriginFilter crossOriginFilter() {
+   		return new CrossOriginFilter();
+   	}
+   }
+   ```
+
+9. 启动服务
+
+   依次启动 Eureka-Config 项目、Zuul-Ribbon 项目及两个 Service 项目，启动整个集群。
+
+   
+
+## Config Demo 测试
+
+显然，如果 Zuul-Ribbon 还能正常地做路由，并在两个 Service 之间做负载均衡，则说明它成功地从 Config 配置中心中获取到配置了。
+
+在浏览器中输入 `http://localhost:8080/service-client/greeting/world`。
+
+多次回车，验证结果。
+
+
+
+可以在 `http://8761/${application-name}/default` 下查看某个项目的配置信息：
+
+![](\assets\picture\Config00.png)
+
+
+
+测试配置更改，我们将 Zuul 对 `/baidu` 的路由改为路由到有道（http://www.youdao.com/）。
+
+```yaml
+zuul:
+  routes:
+    baidu:
+      path: /baidu/**
+      url: http://www.youdao.com/ # 转发到有道
+```
+
+**注意**：要去 Eureka-Config 打包后的地方改（如 `target/classes/config/zuul-server` 路径下），不要在 `resources/` 下改。
+
+保存更改后，向 `http://localhost:8080/refresh` 发送一个空的 POST 请求，以刷新配置。
+
+![](\assets\picture\Config01.png)
+
+可以看到，响应中 包含了更改的配置项。
+
+在浏览器中输入 `http://localhost:8080/baidu`，可以看到，已经重定向到有道主页啦！
+
+![](\assets\picture\Config02.png)
+
+
+
+## 总结
+
+基于 Spring Boot 的 Config 集中配置组件，为我们提供了开箱即用的开发体验。
+
+配置配置中心，只需引入 `spring-cloud-config-server` 依赖，并通过 `@EnableConfigServer` 注解启用，在配置文件路径即可；
+
+对于客户端，只需引入 `spring-cloud-config-server` 依赖，并配置 Config 源即可。
+
+如果引入了 `spring-boot-starter-actuator` 依赖，还可以使用 `refresh/` 免重启地刷新配置。
+
+结合 Git 或 SVN，还可以对配置进行版本管理。

diff --git a/assets/articles/Eureka - 服务发现.md b/assets/articles/Eureka - 服务发现.md
@@ -219,6 +219,10 @@ Eureka Client 也可通过 Eureka Server 获取其他已注册的节点的位置
 
 ![](\assets\picture\Eureka02.png)
 
+通过 `http://localhost:8761/` 还可以访问注册中心的管理界面，查看当前注册信息：
+
+![](\assets\picture\Eureka03.png)
+
 
 
 ## 总结
